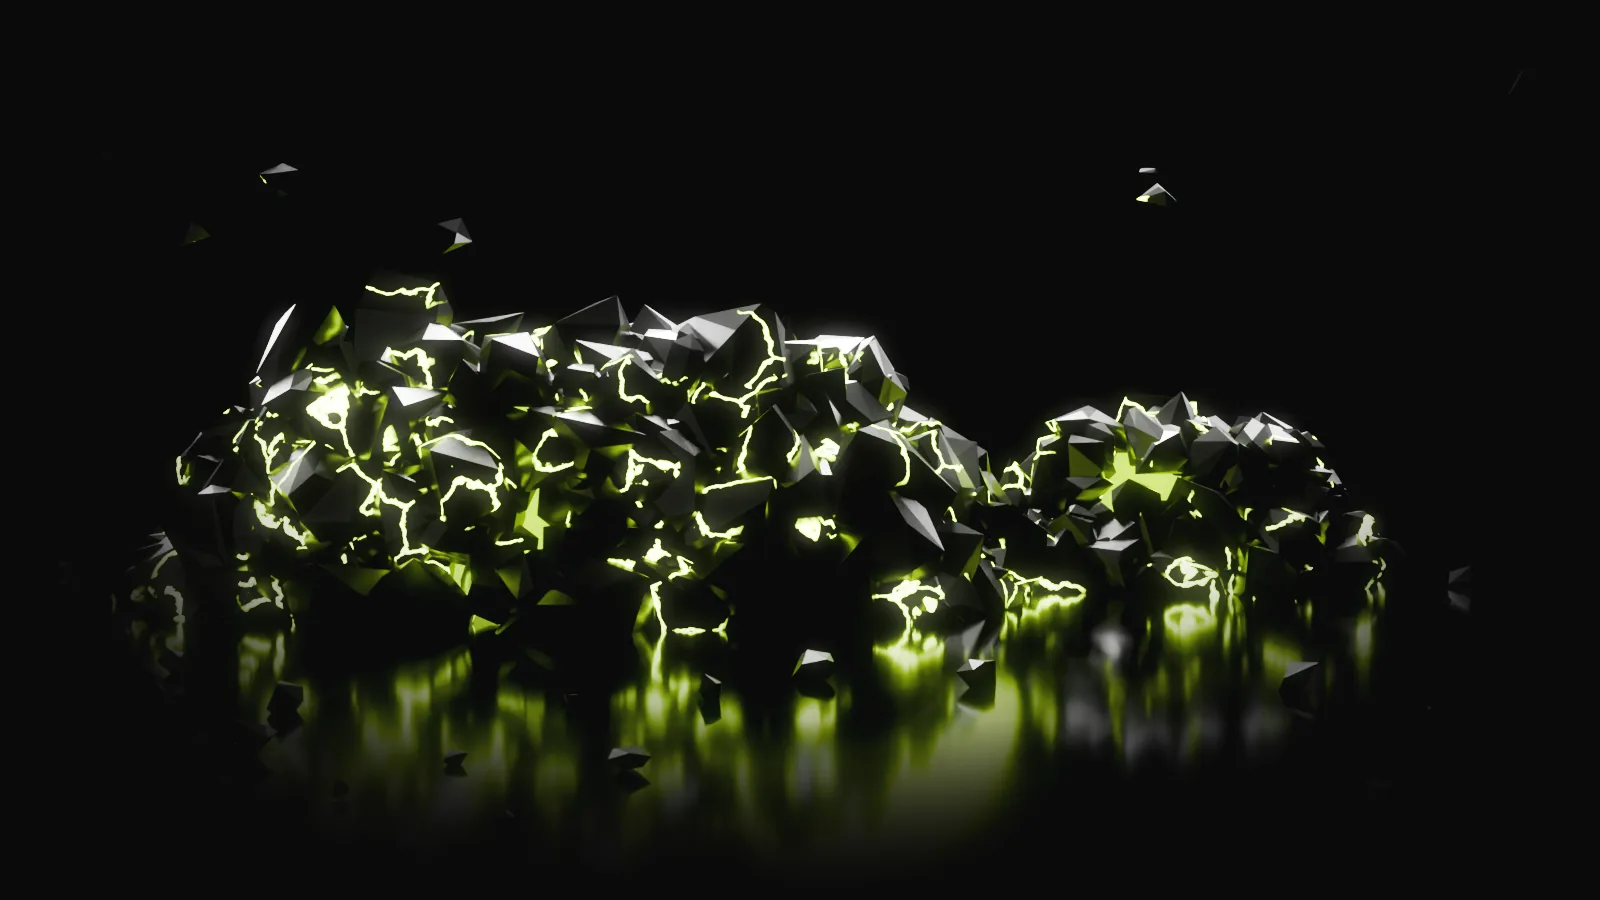
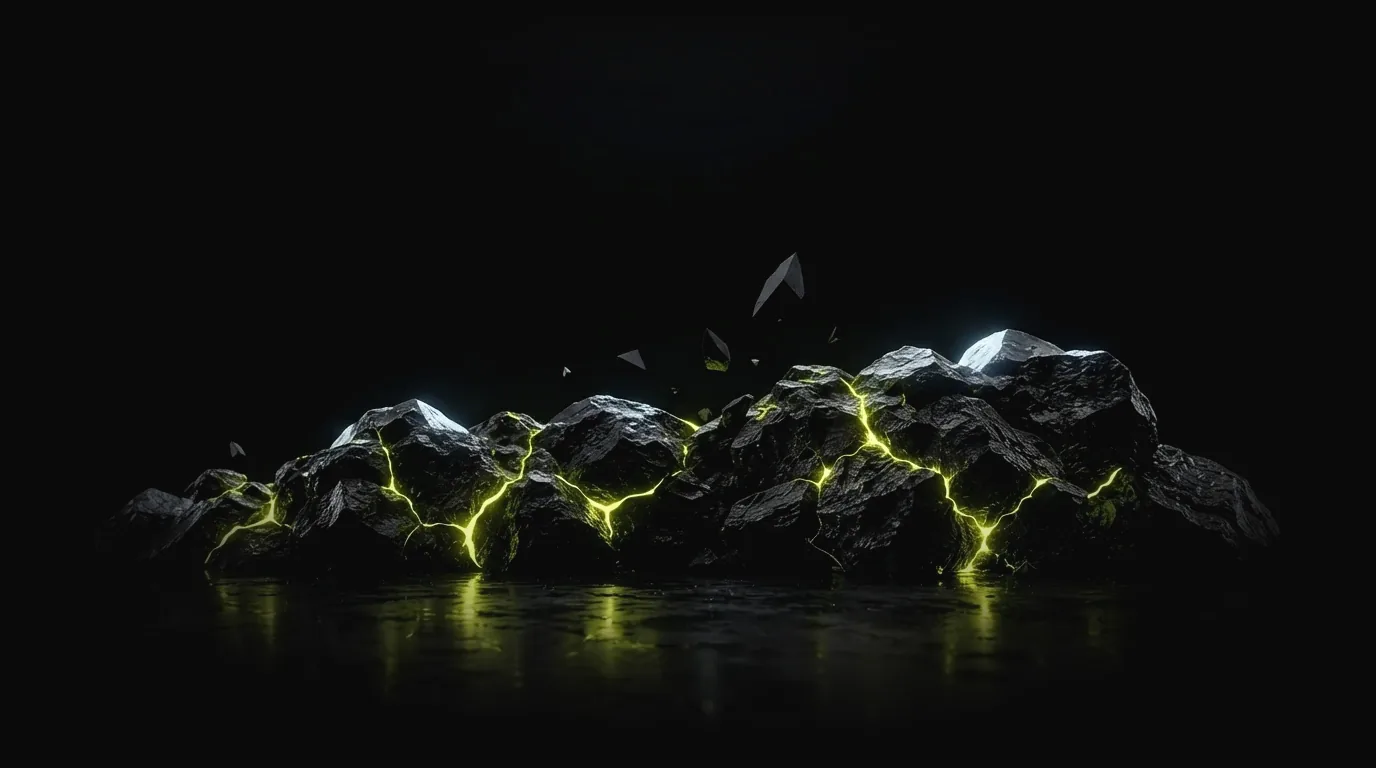
Лендинг: камень из Nano Banana Pro вместо рендера Blender
Картинки сгенерированы в Google AI Studio по слайдам карусели.
rock-post.py получил --crop (срезает знак генератора) и --no-bloom
(у готовой картинки трещины уже светятся). Отступ под карточкой
пересчитан под новый кадр: карточка стоит на вершине скалы.

diff --git a/src/yaseo_app/design/cabinet.css b/src/yaseo_app/design/cabinet.css
@@ -153,9 +153,9 @@ tr:last-child td { border-bottom: 0; }
 .l-kick { display: flex; align-items: center; gap: 14px; font-size: var(--size-small); color: var(--ink-2); font-variant-numeric: tabular-nums; margin-bottom: 22px; }
 .l-kick::after { content: ""; width: 64px; height: 1px; background: currentColor; }
 .l-hero { position: relative; display: grid; grid-template-columns: 1.35fr 1fr; gap: 48px; align-items: center; padding-top: 16px; }
-/* сцена справа: камень с трещинами (scripts/render-rock.py), карточка стоит на нём */
-.l-stage { position: relative; isolation: isolate; padding-bottom: calc(94% - 40px); }
-/* верх груды — на трети высоты кадра: отступ снизу подобран так, чтобы карточка стояла на камне */
+/* сцена справа: камень с трещинами (Nano Banana Pro, доводка scripts/rock-post.py), карточка стоит на нём */
+.l-stage { position: relative; isolation: isolate; padding-bottom: calc(89% + 33px); }
+/* верх скалы — на 44% высоты кадра 728×1152: отступ снизу подобран так, чтобы карточка стояла на камне */
 .l-rock { position: absolute; z-index: -1; left: 50%; bottom: 0; width: calc(100% + 48px); height: auto; transform: translateX(-50%); pointer-events: none; user-select: none; }
 .l-title { font-size: clamp(38px, 5.4vw, 72px); line-height: 0.94; letter-spacing: -0.035em; }
 .l-lead { font-size: 19px; color: var(--ink); opacity: .82; margin-top: 26px; max-width: 44ch; }
@@ -203,7 +203,7 @@ tr:last-child td { border-bottom: 0; }
 @media (max-width: 860px) {
   .landing { gap: 72px; }
   .l-hero, .l-split { grid-template-columns: 1fr; gap: 36px; }
-  .l-stage { padding-bottom: calc(94% - 60px); }
+  .l-stage { padding-bottom: calc(89% - 10px); }
   .l-rock { width: 100%; }
   .l-final-rock { margin-top: -4%; }
   .l-grid3 { grid-template-columns: 1fr; }

diff --git a/scripts/rock-post.py b/scripts/rock-post.py
@@ -1,6 +1,9 @@
 """Постобработка рендера камня: свечение трещин и растворение краёв в фон страницы.
 
-    python3 scripts/rock-post.py RENDER.png OUT.webp hero|wide
+    python3 scripts/rock-post.py SRC OUT.webp hero|wide [--no-bloom] [--crop x0,y0,x1,y1]
+
+SRC — рендер Blender (scripts/render-rock.py) или готовая картинка из нейросети:
+у неё трещины уже светятся (--no-bloom), а знак генератора в углу срезается --crop.
 
 Нужен Pillow (системный python3). Фон страницы — #0a0a0a, края кадра уходят в него,
 чтобы картинка не читалась прямоугольником на тёмной теме.
@@ -11,14 +14,18 @@ from PIL import Image, ImageChops, ImageDraw, ImageFilter
 
 BG = (10, 10, 10)
 src, out, variant = sys.argv[1], sys.argv[2], sys.argv[3]
+opts = sys.argv[4:]
 im = Image.open(src).convert("RGB")
+if "--crop" in opts:
+    im = im.crop(tuple(int(v) for v in opts[opts.index("--crop") + 1].split(",")))
 w, h = im.size
 
 # bloom: берём только яркое (трещины и их отражения), размываем в двух радиусах и складываем
-bright = im.point(lambda v: 0 if v < 150 else int((v - 150) * 255 / 105))
-halo = ImageChops.add(bright.filter(ImageFilter.GaussianBlur(w * 0.006)),
-                      bright.filter(ImageFilter.GaussianBlur(w * 0.022)), scale=1.6)
-im = ImageChops.screen(im, halo)
+if "--no-bloom" not in opts:
+    bright = im.point(lambda v: 0 if v < 150 else int((v - 150) * 255 / 105))
+    halo = ImageChops.add(bright.filter(ImageFilter.GaussianBlur(w * 0.006)),
+                          bright.filter(ImageFilter.GaussianBlur(w * 0.022)), scale=1.6)
+    im = ImageChops.screen(im, halo)
 
 # маска краёв: мягкий овал; у героя сильнее гасим верх (там стоит карточка) и низ
 mask = Image.new("L", (w, h), 0)
